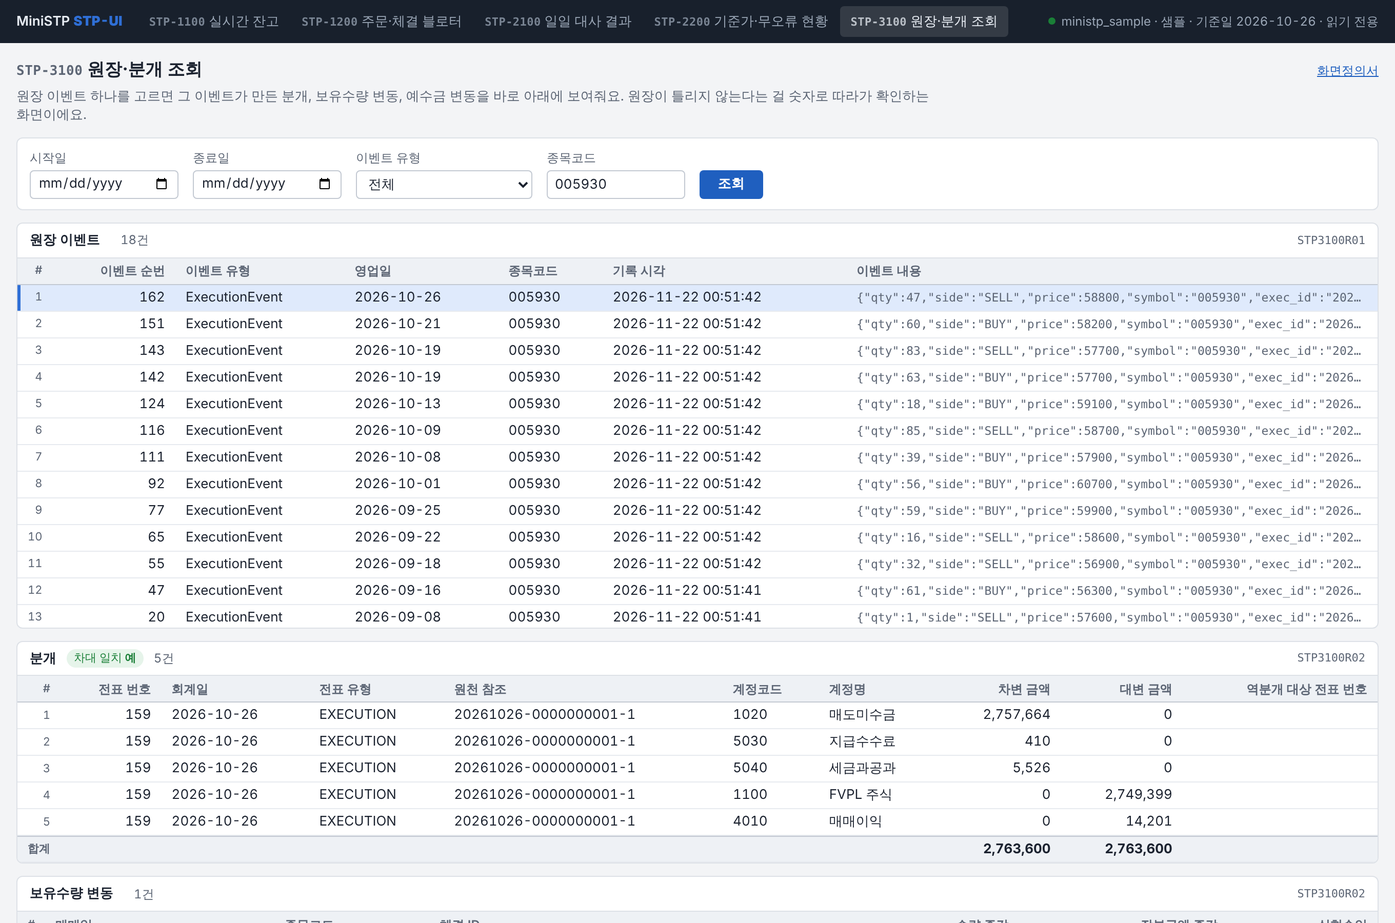
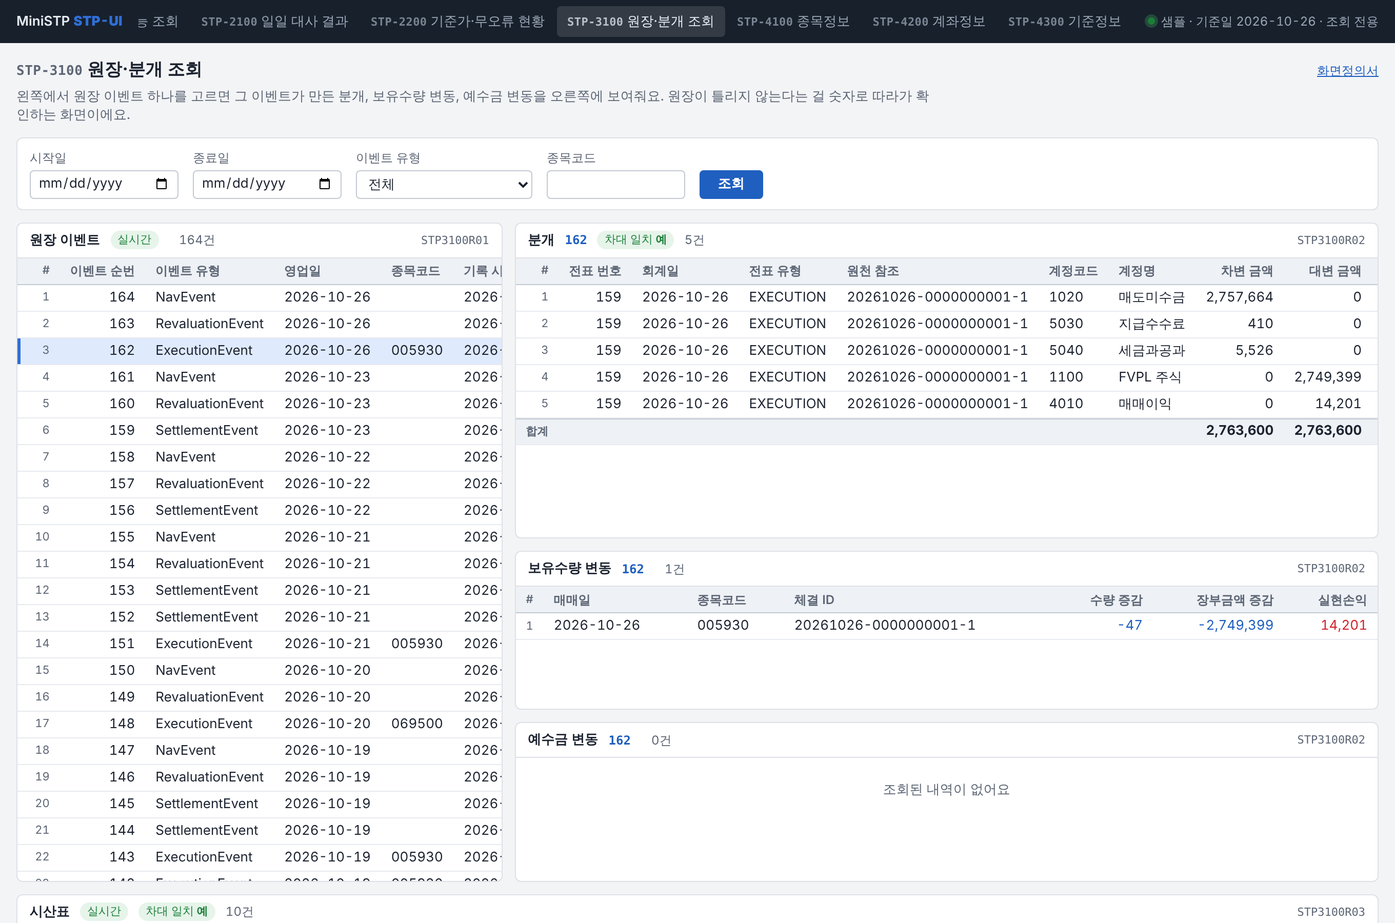
화면 좌우 구성: 왼쪽 목록, 오른쪽 상세 (layout: split)
목록과 상세가 있는 화면을 세로로 쌓지 않고 좌우로 나눈다. 양쪽이 창 높이
안에서 따로 스크롤해서 행이 많아져도 화면이 아래로 길어지지 않는다.
목록이 열리면 첫 행이 먼저 골라지고, 상세 그리드는 제목 옆에 어느 행의
상세인지 적는다. 검증기는 좌우 구성의 목록을 하나, 상세를 3개까지만 받는다.
STP-3100, STP-4100에 적용.

Claude-Session: https://claude.ai/code/session_01NHQjyAqrf2ywfV9bXEBZRw

diff --git a/src/ministp/ui/static/stpui.js b/src/ministp/ui/static/stpui.js
@@ -255,14 +255,16 @@
 
     function search() {
       const list = def.grids.filter(g => g.load !== "master");
-      def.grids.filter(g => g.load === "master").forEach(g => grids[g.id].clear("위 목록에서 행을 고르세요"));
+      def.grids.filter(g => g.load === "master").forEach(g => grids[g.id].clear("목록에서 행을 고르세요"));
       return load(list, searchParams);
     }
 
     function onSelect(master, row) {
       const details = def.grids.filter(g => g.load === "master" && g.master === master.id);
       if (!details.length || !row) return;
-      load(details, g => Object.fromEntries(Object.entries(g.link).map(([p, col]) => [p, row[col]])));
+      const linked = g => Object.fromEntries(Object.entries(g.link).map(([p, col]) => [p, row[col]]));
+      details.forEach(g => grids[g.id].about(Object.values(linked(g)).join(" · ")));   // whose detail this is
+      load(details, linked);
     }
 
     function drill(g, row) {
@@ -284,10 +286,32 @@
       h("button", { type: "submit", class: "primary", title: "Ctrl+Enter" }, "조회")) : null;
 
     const panels = def.grids.map(g => {
-      const grid = Grid(g, { onSelect: row => onSelect(g, row), onDrill: row => drill(g, row) });
+      const grid = Grid(g, { onSelect: row => onSelect(g, row), onDrill: row => drill(g, row),
+        leads: def.grids.some(d => d.load === "master" && d.master === g.id) });
       grids[g.id] = grid;
       return grid.el;
     });
+
+    // 좌우 구성: the list that has details on the left, its details on the right, each scrolling
+    // inside its own panel. Grids that follow no row stay below, full width.
+    function splitView() {
+      const detail = g => g.load === "master";
+      const leads = g => def.grids.some(d => detail(d) && d.master === g.id);
+      const pick = test => def.grids.filter(test).map(g => grids[g.id].el);
+      def.grids.filter(g => leads(g) || detail(g)).forEach(g => { grids[g.id].el.style.flexGrow = g.weight; });   // share of the height
+      const split = h("div", { class: "split" },
+        h("div", { class: "side" }, pick(leads)), h("div", { class: "side" }, pick(detail)));
+      split.style.setProperty("--left", def.left + "fr");
+      split.style.setProperty("--right", (100 - def.left) + "fr");
+      return [split, ...pick(g => !leads(g) && !detail(g))];
+    }
+    // The two sides fill what is left of the window, so a long list scrolls in place.
+    function fitSplit() {
+      const split = app.querySelector(".split");
+      if (!split) return;
+      const room = window.innerHeight - split.getBoundingClientRect().top - window.scrollY - 40;
+      split.style.setProperty("--fit", Math.max(380, Math.round(room)) + "px");
+    }
 
     app.append(topbar(def), h("main", { class: "screen" },
       h("div", { class: "title" },
@@ -295,8 +319,10 @@
         h("a", { class: "spec", href: "/spec/" + def.id, title: "정의 파일과 DB 주석에서 생성한 화면정의서" }, "화면정의서")),
       h("p", { class: "purpose", text: def.purpose }),
       conds,
-      h("div", { class: "grids" }, panels),
+      h("div", { class: "grids" }, def.layout === "split" ? splitView() : panels),
       status));
+    fitSplit();
+    window.addEventListener("resize", fitSplit);
 
     document.addEventListener("keydown", e => {
       if (e.key === "Enter" && (e.ctrlKey || e.metaKey)) { e.preventDefault(); search(); }
@@ -306,7 +332,7 @@
     opening.forEach(g => grids[g.id].skeleton());
     const hasDrill = def.conditions.some(c => urlParams.has(c.name));
     def.grids.filter(g => g.load === "search").forEach(g => grids[g.id].clear("조회조건을 정하고 조회를 누르세요"));
-    def.grids.filter(g => g.load === "master").forEach(g => grids[g.id].clear("위 목록에서 행을 고르세요"));
+    def.grids.filter(g => g.load === "master").forEach(g => grids[g.id].clear("목록에서 행을 고르세요"));
     if (hasDrill) search(); else if (opening.length) load(opening, searchParams);
 
     // 실시간: the server says when the DB head moves; live grids reload with their last conditions.
@@ -328,7 +354,7 @@
   }
 
   // ---------- grid ----------
-  function Grid(g, { onSelect, onDrill }) {
+  function Grid(g, { onSelect, onDrill, leads }) {
     let rows = [], view = [], sel = -1, sortCol = null, sortDir = 1;
     let changed = new Map();   // row key -> Set of changed columns ("*" = new row), shown once
     let previous = new Map();  // row key -> the row before this fill (numbers roll from here)
@@ -337,17 +363,20 @@
     const rowKey = g.view === "cards" ? () => "card" : r => String(r[keyCol]);   // cards show one row
     const count = h("span", { class: "count" });
     const metaBox = h("span", { class: "meta" });
+    const aboutBox = h("span", { class: "about", title: "목록에서 고른 행" });
     const body = h("div", { class: "gbody" });
     const chartBox = g.chart ? h("div", { class: "chart" }) : null;
     const el = h("section", { class: "panel" + (g.view === "cards" ? " cards-panel" : ""), "aria-label": g.title },
-      h("div", { class: "phead" }, h("h2", { text: g.title }),
+      h("div", { class: "phead" }, h("h2", { text: g.title }), aboutBox,
         g.live ? h("span", { class: "livechip", title: "DB가 바뀌면 자동으로 다시 조회해요" }, "실시간") : null,
         metaBox, count,
         h("span", { class: "txid", title: "조회 트랜잭션", text: g.tx })),
       chartBox, body);
 
+    // A detail grid names the master row it belongs to, next to its title.
+    function about(text) { aboutBox.textContent = text || ""; }
     function clear(msg) {
-      rows = []; view = []; sel = -1; loaded = false; count.textContent = ""; metaBox.replaceChildren();
+      rows = []; view = []; sel = -1; loaded = false; count.textContent = ""; metaBox.replaceChildren(); about("");
       if (chartBox) chartBox.replaceChildren();
       morph(body, () => body.replaceChildren(h("div", { class: "empty", text: msg })));
     }
@@ -389,6 +418,14 @@
       loaded = true;
       sel = keep ? view.findIndex(r => rowKey(r) === keep) : -1;
       if (keep) mark(false);
+      // 기초 정보 → 상세: a grid with details under it opens with a row already picked
+      // (the one the transaction names in meta.selected, else the first), so the details are never empty.
+      if (!live && leads && view.length) {
+        const named = meta && meta.selected != null ? view.findIndex(r => rowKey(r) === String(meta.selected)) : -1;
+        sel = named >= 0 ? named : 0;
+        mark(false);
+        onSelect(view[sel]);
+      }
       if (hadFocus) { const t = body.querySelector(".grid"); if (t) t.focus({ preventScroll: true }); }
       changed = new Map();   // highlight once; a later sort does not flash again
       previous = new Map();
@@ -546,7 +583,7 @@
       chartBox.replaceChildren(s);
     }
 
-    return { el, fill, clear, busy, fail, skeleton };
+    return { el, fill, clear, busy, fail, skeleton, about };
   }
 
   if (DATA.screen) Screen(DATA.screen); else home();

diff --git a/src/ministp/ui/static/stpui.css b/src/ministp/ui/static/stpui.css
@@ -72,6 +72,8 @@ button.primary:hover { filter: brightness(1.08); }
 .phead { display: flex; align-items: center; gap: 10px; padding: 7px 12px; border-bottom: 1px solid var(--line); flex-wrap: wrap; }
 .phead h2 { font-size: 13px; margin: 0; font-weight: 650; }
 .count { color: var(--muted); font-size: 12px; }
+.about { font: 600 12px ui-monospace, Consolas, monospace; color: var(--accent); }
+.about:empty { display: none; }
 .txid { margin-left: auto; font: 11px ui-monospace, Consolas, monospace; color: var(--muted); }
 .meta { display: flex; gap: 6px; }
 .badge { font-size: 11px; padding: 1px 7px; border-radius: 10px; background: var(--head); color: var(--muted); }
@@ -80,6 +82,16 @@ button.primary:hover { filter: brightness(1.08); }
 .badge.bad { background: var(--bad-bg); color: var(--bad); } .badge.bad b { color: var(--bad); }
 
 .gbody { max-height: 360px; overflow: auto; position: relative; }
+/* 좌우 구성: 목록 왼쪽, 상세 오른쪽. Each panel scrolls inside itself; the header row stays. */
+.split { display: grid; grid-template-columns: minmax(0, var(--left, 45fr)) minmax(0, var(--right, 55fr)); gap: 12px; height: var(--fit, 520px); }
+.split .side { display: flex; flex-direction: column; gap: 12px; min-height: 0; min-width: 0; }
+.split .panel { flex: 1 1 0; min-height: 0; display: flex; flex-direction: column; }
+.split .gbody { max-height: none; flex: 1 1 0; min-height: 0; }
+@media (max-width: 900px) {
+  .split { grid-template-columns: minmax(0, 1fr); height: auto; }
+  .split .panel { flex: none; }
+  .split .gbody { max-height: 360px; flex: none; }
+}
 .cards-panel .gbody { max-height: none; }
 .grid { border-collapse: separate; border-spacing: 0; width: 100%; white-space: nowrap; }
 .grid th, .grid td { padding: 0 10px; height: 26px; border-bottom: 1px solid var(--grid-line); text-align: left; }

diff --git a/src/ministp/ui/definitions.py b/src/ministp/ui/definitions.py
@@ -17,6 +17,8 @@ FORMATS = {"text", "code", "number", "money", "rate", "date", "datetime", "json"
 RIGHT = {"number", "money", "rate"}
 COLORS = {None, "sign", "side", "status", "verdict"}  # verdict: the row's ok field
 LOADS = {"search", "open", "master", "input"}
+LAYOUTS = {"stack", "split"}   # stack: grids one under another · split: 목록 왼쪽, 상세 오른쪽
+MAX_DETAILS = 3                # a split screen shows at most this many detail grids next to its list
 CONDITION_TYPES = {"date", "text", "select", "bool", "number"}
 SCREEN_ID = re.compile(r"^STP-\d{4}$")
 
@@ -57,6 +59,7 @@ class Grid:
     chart: dict | None = None   # {x: column, y: column}: a line over the rows
     live: bool = False          # reload when the DB changes (SSE), changed rows highlighted
     key: str | None = None      # column that identifies a row across reloads (default: first column)
+    weight: int = 1             # split layout: this grid's share of its side's height
 
 
 @dataclass
@@ -78,13 +81,16 @@ class Screen:
     conditions: list[Condition]
     grids: list[Grid]
     file: str = ""
+    layout: str = "stack"       # split: the list that has details on the left, its details on the right
+    left: int = 45              # split: width of the left side in percent
 
 
 def _build(raw: dict, file: str) -> Screen:
     try:
         grids = [Grid(**{**g, "columns": [Column(**c) for c in g["columns"]]}) for g in raw["grids"]]
         conds = [Condition(**c) for c in raw.get("conditions", [])]
-        return Screen(raw["id"], raw["title"], raw.get("purpose", ""), conds, grids, file)
+        return Screen(raw["id"], raw["title"], raw.get("purpose", ""), conds, grids, file,
+                      raw.get("layout", "stack"), raw.get("left", 45))
     except (KeyError, TypeError) as e:
         raise DefinitionError(f"{file}: 형식 오류 {e}") from e
 
@@ -113,6 +119,31 @@ def column_comment(catalog: dict, source: str) -> str | None:
     return next((c["comment"] for c in info["columns"] if c["name"] == col), None)
 
 
+def split_sides(screen: Screen) -> tuple[list[Grid], list[Grid], list[Grid]]:
+    """A split screen's grids as (left: the list with details, right: its details, below: the rest)."""
+    masters = {g.master for g in screen.grids if g.load == "master"}
+    left = [g for g in screen.grids if g.id in masters]
+    right = [g for g in screen.grids if g.load == "master"]
+    below = [g for g in screen.grids if g.id not in masters and g.load != "master"]
+    return left, right, below
+
+
+def _layout_problems(s: Screen, where: str) -> list[str]:
+    if s.layout not in LAYOUTS:
+        return [f"{where}: layout은 {sorted(LAYOUTS)} 중 하나"]
+    if s.layout != "split":
+        return []
+    errs = []
+    left, right, _ = split_sides(s)
+    if len(left) != 1:
+        errs.append(f"{where}: 좌우 구성(split)은 상세가 딸린 목록 그리드가 하나여야 해요 (지금 {len(left)}개)")
+    if len(right) > MAX_DETAILS:
+        errs.append(f"{where}: 좌우 구성의 상세 그리드는 {MAX_DETAILS}개까지예요 (지금 {len(right)}개). 화면을 나눠 주세요")
+    if not isinstance(s.left, int) or not 25 <= s.left <= 75:
+        errs.append(f"{where}: left(왼쪽 너비 %)는 25~75 사이 정수")
+    return errs
+
+
 def validate(screens: dict[str, Screen], catalog: dict) -> list[str]:
     """Static checks against the schema catalog (erd.read_catalog). Returns problems, empty if fine."""
     errs = []
@@ -122,6 +153,7 @@ def validate(screens: dict[str, Screen], catalog: dict) -> list[str]:
             errs.append(f"{where}: 화면번호 형식은 STP-4자리")
         ids = set()
         search_params: set[str] = set()
+        errs += _layout_problems(s, where)
         for g in s.grids:
             gw = f"{where} 그리드 {g.id}"
             tx = TRANSACTIONS.get(g.tx)
@@ -153,6 +185,8 @@ def validate(screens: dict[str, Screen], catalog: dict) -> list[str]:
                         errs.append(f"{gw}.{c.name}: DB 컬럼이 있으면 한글명은 DB 주석을 써요 (label 제거)")
                 elif not c.label:
                     errs.append(f"{gw}.{c.name}: source(DB 컬럼)나 label 중 하나가 필요해요")
+            if not isinstance(g.weight, int) or not 1 <= g.weight <= 5:
+                errs.append(f"{gw}: weight(높이 비중)는 1~5 사이 정수")
             if g.key and g.key not in {c.name for c in g.columns}:
                 errs.append(f"{gw}: 행 식별 열 {g.key}가 열에 없어요")
             if g.live and g.load == "master":

diff --git a/src/ministp/ui/spec.py b/src/ministp/ui/spec.py
@@ -5,10 +5,10 @@ column, the DB column and the Korean name taken from the schema COMMENT. The
 index adds 영향도 (which screens show a DB column), so a schema change shows
 at once which screens it touches.
 """
-from .definitions import Screen, column_comment, resolve, short, usages
+from .definitions import Screen, column_comment, resolve, short, split_sides, usages
 from .transactions import TRANSACTIONS
 
-LOAD_TEXT = {"search": "조회 버튼", "open": "화면 열 때 + 조회 버튼", "master": "마스터 행 선택",
+LOAD_TEXT = {"search": "조회 버튼", "open": "화면 열 때 + 조회 버튼", "master": "목록(마스터)에서 행 선택",
              "input": "조회조건을 바꿀 때마다 (입력 즉시 재계산)"}
 FORMAT_TEXT = {"text": "문자", "code": "코드", "number": "수량", "money": "금액", "rate": "비율·단가",
                "date": "날짜", "datetime": "일시", "json": "JSON"}
@@ -19,11 +19,22 @@ def _cell(s) -> str:
     return str(s if s is not None else "").replace("|", "\\|").replace("\n", " ")
 
 
+def _names(grids) -> str:
+    return ", ".join(f"`{g.id}` {g.title}" for g in grids)
+
+
 def screen_markdown(screen: Screen, catalog: dict) -> str:
     r = resolve(screen, catalog)
     out = [f"# {screen.id} {screen.title}", "", f"> 이 문서는 `src/ministp/ui/screens/{screen.file}`에서 생성돼요."
            " 직접 고치지 말고 화면 정의를 고친 뒤 `python scripts/gen_screen_docs.py`를 실행하세요.", "",
            "## 목적", "", screen.purpose, ""]
+    if screen.layout == "split":
+        left, right, below = split_sides(screen)
+        out += ["## 화면 구성", "", "좌우 구성이에요. 왼쪽 목록에서 행을 고르면 오른쪽이 그 행의 상세로 바뀌어요.", "",
+                f"- 왼쪽 (너비 {screen.left}%): {_names(left)}", f"- 오른쪽: {_names(right)}"]
+        if below:
+            out.append(f"- 아래 (고른 행과 무관): {_names(below)}")
+        out.append("")
     if screen.conditions:
         out += ["## 조회조건", "", "| 조건 | 한글명 | 형식 | DB 컬럼 | 필수 | 기본값 | 선택값 |",
                 "|---|---|---|---|---|---|---|"]
@@ -46,6 +57,8 @@ def screen_markdown(screen: Screen, catalog: dict) -> str:
         if g.master:
             link = ", ".join(f"`{p}` ← `{g.master}.{c}`" for p, c in g.link.items())
             facts.append(f"- 마스터: `{g.master}` ({link})")
+        if g.weight != 1:
+            facts.append(f"- 높이 비중: {g.weight} (좌우 구성에서 같은 쪽 그리드와 나눠 쓰는 높이)")
         if g.view != "grid":
             facts.append("- 표시: 요약 카드")
         if g.totals:

diff --git a/tests/unit/test_ui_definitions.py b/tests/unit/test_ui_definitions.py
@@ -104,3 +104,33 @@ def test_live_stream_sends_a_change_only_when_the_head_moves():
         return [c async for c in live_events(lambda: next(heads), interval=1, keepalive=2, sleep=no_sleep, limit=2)]
     out = asyncio.run(collect())
     assert out == ['event: change\ndata: {"seq": 1}\n\n', ": keep-alive\n\n", 'event: change\ndata: {"seq": 2}\n\n']
+
+
+def test_split_layout_is_one_list_on_the_left_and_a_few_details_on_the_right():
+    """좌우 구성: 목록 왼쪽, 상세 오른쪽. A screen does not get to hold everything."""
+    from ministp.ui.definitions import MAX_DETAILS, split_sides
+    cols = [Column("qty", "positions_v.qty")]
+
+    def split(details, **kw):
+        grids = [Grid("m", "목록", "STP1100R01", cols, load="open")]
+        grids += [Grid(f"d{i}", "상세", "STP1100R01", cols, load="master", master="m") for i in range(details)]
+        return {"STP-1100": Screen("STP-1100", "잔고", "", [], grids, layout="split", **kw)}
+
+    assert validate(split(2), CATALOG) == []
+    assert any("상세가 딸린 목록 그리드가 하나" in e for e in validate(split(0), CATALOG))
+    assert any(f"{MAX_DETAILS}개까지" in e for e in validate(split(MAX_DETAILS + 1), CATALOG))
+    assert any("25~75" in e for e in validate(split(1, left=90), CATALOG))
+    tall = split(2)
+    tall["STP-1100"].grids[1].weight = 9
+    assert any("weight" in e for e in validate(tall, CATALOG))
+    odd = split(1)
+    odd["STP-1100"].layout = "tabs"
+    assert any("layout은" in e for e in validate(odd, CATALOG))
+
+    shipped = load_screens()
+    for sid, on_left, on_right, under in [("STP-3100", ["events"], ["journal", "positions", "cash"], ["trial"]),
+                                          ("STP-4100", ["instruments"], ["events"], [])]:
+        assert shipped[sid].layout == "split"
+        left, right, below = split_sides(shipped[sid])
+        assert ([g.id for g in left], [g.id for g in right], [g.id for g in below]) == (on_left, on_right, under)
+    assert shipped["STP-1100"].layout == "stack"

diff --git a/README.md b/README.md
@@ -88,6 +88,7 @@ python -m ministp ui                   # 내 DB로 열기 (조회만 해요)
 - **서버 시작 시 대조**: 모든 화면 정의를 DB 스키마와 대조해서, 없는 컬럼·트랜잭션·조회조건이 하나라도 있으면 서버가 뜨지 않습니다. 테스트는 각 그리드의 열이 트랜잭션 결과에 실제로 있는지까지 확인합니다.
 - **조회 트랜잭션**: 화면은 `POST /api/tx/STP3100R02`처럼 트랜잭션 ID로만 데이터를 받습니다(화면번호 + R + 일련번호). 같은 트랜잭션을 쓰는 그리드는 한 번만 호출합니다.
 - **화면 기능**: 조회조건(기본값 `today`), 정렬, 금액·수량 서식, 상승·매수 빨강/하락·매도 파랑, 합계 행, 마스터-디테일(이벤트를 고르면 분개·보유·예수금 변동), 다른 화면으로 이동(행 더블클릭·Enter), 상태 배지(차대 일치, 무오류 연속일), 기준가 선 그래프, 키보드(↑↓, Ctrl+Enter 조회), 라이트·다크.
+- **화면 구성(왼쪽 목록, 오른쪽 상세)**: 목록과 상세가 있는 화면은 `layout: split`으로 좌우로 나눕니다. 왼쪽 목록에서 행을 고르면 오른쪽이 그 행의 상세로 바뀌고, 양쪽이 창 높이 안에서 따로 스크롤해서 행이 많아져도 화면이 아래로 길어지지 않습니다. 목록이 열리면 첫 행이 먼저 골라져 있어 상세가 비어 있지 않고, 상세 그리드는 제목 옆에 어느 행의 상세인지 적습니다. 한 화면에 너무 많은 정보를 담지 않도록 검증기가 좌우 구성의 목록은 하나, 상세는 3개까지만 받습니다. 지금은 STP-3100, STP-4100이 이 구성입니다.
 - **주문가능 조회(STP-1300)**: 종목·수량·지정가를 입력하는 즉시 백엔드가 실제 주문 검증과 같은 계산(R-36~38: 주문가능, 공매도 금지, 영업일·호가단위)으로 판단합니다. 화면에서 따로 계산하지 않아 화면과 주문 결과가 어긋날 수 없습니다. 지정가가 없으면 최근 종가를 쓰고(장중 현재가 연결 전), 호가단위도 확인합니다.
 - **기준정보(STP-4100 종목정보, STP-4200 계좌정보, STP-4300 기준정보)**: 수수료·세율, 결제주기 규칙, 호가단위, 휴장일, 주문 검증 기준을 화면용 사본이 아니라 원장과 주문 검증이 실제로 쓰는 객체에서 읽어 보여줍니다. 계좌정보는 원장 기준 요약과 결제일별 예수금(D+0·D+1·D+2)을 보여주고, 계좌번호와 인증키는 DB에 없으므로 화면에도 나오지 않습니다. 변경 화면은 게이트 이후 적용시작일이 있는 이력과 감사로그와 함께 만듭니다.
 - **실시간 갱신**: 화면은 `/api/live`(SSE)로 DB 변경을 알림받아, `live: true` 그리드를 마지막 조회조건으로 다시 조회하고 바뀐 칸만 잠깐 강조합니다. 게이트 기간이라 트리거·스키마 변경 없이 원장 순번 등 몇 가지 표지만 1초마다 확인합니다. `run`이 체결통보를 원장에 반영하면 잔고·블로터 화면이 바로 바뀝니다.

diff --git a/docs/screens/STP-3100.md b/docs/screens/STP-3100.md
@@ -4,7 +4,15 @@
 
 ## 목적
 
-원장 이벤트 하나를 고르면 그 이벤트가 만든 분개, 보유수량 변동, 예수금 변동을 바로 아래에 보여줘요. 원장이 틀리지 않는다는 걸 숫자로 따라가 확인하는 화면이에요.
+왼쪽에서 원장 이벤트 하나를 고르면 그 이벤트가 만든 분개, 보유수량 변동, 예수금 변동을 오른쪽에 보여줘요. 원장이 틀리지 않는다는 걸 숫자로 따라가 확인하는 화면이에요.
+
+## 화면 구성
+
+좌우 구성이에요. 왼쪽 목록에서 행을 고르면 오른쪽이 그 행의 상세로 바뀌어요.
+
+- 왼쪽 (너비 36%): `events` 원장 이벤트
+- 오른쪽: `journal` 분개, `positions` 보유수량 변동, `cash` 예수금 변동
+- 아래 (고른 행과 무관): `trial` 시산표
 
 ## 조회조건
 
@@ -41,8 +49,9 @@
 ## 그리드 `journal` 분개
 
 - 트랜잭션: `STP3100R02` → 데이터셋 `journal`
-- 불러오는 때: 마스터 행 선택
+- 불러오는 때: 목록(마스터)에서 행 선택
 - 마스터: `events` (`seq` ← `events.seq`)
+- 높이 비중: 2 (좌우 구성에서 같은 쪽 그리드와 나눠 쓰는 높이)
 - 합계: `debit`, `credit`
 - 상태 표시: 차대 일치 (`balanced`)
 
@@ -61,7 +70,7 @@
 ## 그리드 `positions` 보유수량 변동
 
 - 트랜잭션: `STP3100R02` → 데이터셋 `positions`
-- 불러오는 때: 마스터 행 선택
+- 불러오는 때: 목록(마스터)에서 행 선택
 - 마스터: `events` (`seq` ← `events.seq`)
 
 | 열 | 한글명 | DB 컬럼 | DB 주석 | 형식 | 정렬 | 색 |
@@ -76,7 +85,7 @@
 ## 그리드 `cash` 예수금 변동
 
 - 트랜잭션: `STP3100R02` → 데이터셋 `cash`
-- 불러오는 때: 마스터 행 선택
+- 불러오는 때: 목록(마스터)에서 행 선택
 - 마스터: `events` (`seq` ← `events.seq`)
 
 | 열 | 한글명 | DB 컬럼 | DB 주석 | 형식 | 정렬 | 색 |

diff --git a/docs/screens/STP-4100.md b/docs/screens/STP-4100.md
@@ -4,7 +4,14 @@
 
 ## 목적
 
-등록된 종목의 기본정보와, 시스템이 실제로 쓰는 값(최근 종가의 호가단위, 매도 세율)을 함께 보여줘요. 종목을 고르면 그 종목의 원장 이벤트가 아래에 나오고, 더블클릭하면 주문가능 조회로 가요. 종목 등록·변경은 지금은 CLI(instrument 명령)로만 해요.
+등록된 종목의 기본정보와, 시스템이 실제로 쓰는 값(최근 종가의 호가단위, 매도 세율)을 함께 보여줘요. 왼쪽에서 종목을 고르면 그 종목의 원장 이벤트가 오른쪽에 나오고, 더블클릭하면 주문가능 조회로 가요. 종목 등록·변경은 지금은 CLI(instrument 명령)로만 해요.
+
+## 화면 구성
+
+좌우 구성이에요. 왼쪽 목록에서 행을 고르면 오른쪽이 그 행의 상세로 바뀌어요.
+
+- 왼쪽 (너비 55%): `instruments` 등록 종목
+- 오른쪽: `events` 이 종목의 원장 이벤트
 
 ## 트랜잭션
 
@@ -36,7 +43,7 @@
 ## 그리드 `events` 이 종목의 원장 이벤트
 
 - 트랜잭션: `STP4100R02` → 데이터셋 `main`
-- 불러오는 때: 마스터 행 선택
+- 불러오는 때: 목록(마스터)에서 행 선택
 - 마스터: `instruments` (`symbol` ← `instruments.symbol`)
 
 | 열 | 한글명 | DB 컬럼 | DB 주석 | 형식 | 정렬 | 색 |
